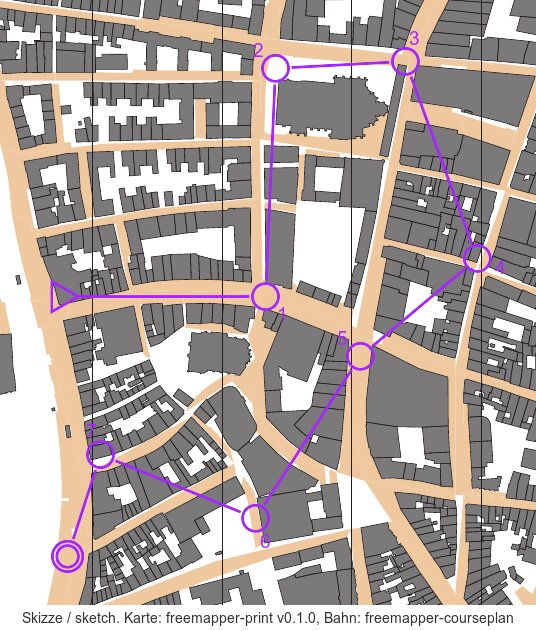
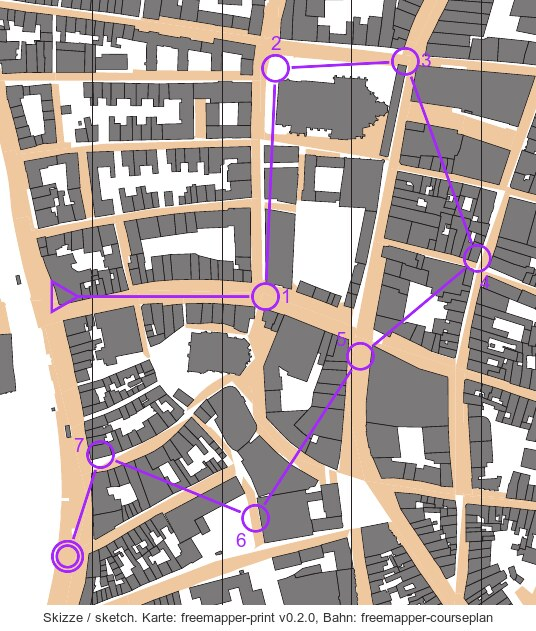
docs: record number placement rules, straight-angle hint and new example output
Claude-Session: https://claude.ai/code/session_01BW25YoqN46qrkRXtWogXH1

diff --git a/examples/luebeck-sprint/make-preview.py b/examples/luebeck-sprint/make-preview.py
@@ -7,6 +7,13 @@ ctrl={str(c['code']):c for c in ev['controls']}
 sp={s['id']:s for s in ev['specials']}
 course=ev['courses'][0]
 seq=[('S1',sp['S1']['map_mm'],None)]+[(str(cc['code']),ctrl[str(cc['code'])]['map_mm'],cc.get('number')) for cc in course['controls']]+[('F1',sp['F1']['map_mm'],None)]
+R_OUTER=3.0+0.175
+def box_dist(c,s,a,b,reach):
+    # distance along the ray at which a box (half sizes a, b) centred on it is `reach` from the origin
+    if s<1e-9 or (c>1e-9 and (reach+a)/c*s<=b): return (reach+a)/c
+    if c<1e-9 or (reach+b)/s*c<=a: return (reach+b)/s
+    p=a*c+b*s
+    return p+math.sqrt(max(p*p-a*a-b*b+reach*reach,0.0))
 P='#A626FF'; r=3.0*k; lw=0.35*k*1.4
 draw=[]
 pts=[px(s[1]) for s in seq]
@@ -25,8 +32,11 @@ for d in draw: cmd+=['-draw',d]
 cmd+=['-stroke','none','-fill',P,'-font','/System/Library/Fonts/Supplemental/Arial.ttf','-pointsize','19']
 for i,s in enumerate(seq[1:-1],1):
     x,y=pts[i]; n=s[2] or {'direction':45,'gap_mm':0.5}
-    t=math.radians(n['direction']); dist=r+n['gap_mm']*k+2.2*k
-    cmd+=['-draw',f"text {x+dist*math.cos(t)-5:.0f},{y-dist*math.sin(t)+7:.0f} '{i}'"]
+    t=math.radians(n['direction']); c,s_=abs(math.cos(t)),abs(math.sin(t))
+    # ADR 0030: gap = clearance from the outer edge of the circle line to the number box, box centred on the ray
+    w=0.6*4.0*k*len(str(i)); h=4.0*k; reach=R_OUTER*k+n['gap_mm']*k
+    dist=box_dist(c,s_,w/2,h/2,reach)
+    cmd+=['-draw',f"text {x+dist*math.cos(t)-w/2:.0f},{y-dist*math.sin(t)+7:.0f} '{i}'"]
 cmd+=[f'{S}/sketch.png']
 subprocess.run(cmd,check=True)
 xs=[p[0] for p in pts]; ys=[p[1] for p in pts]

diff --git a/docs/adr/0031-number-placement-behind-the-circle-and-off-map-symbols.md b/docs/adr/0031-number-placement-behind-the-circle-and-off-map-symbols.md
@@ -1,0 +1,58 @@
+# 0031. Number placement behind the circle and off map symbols
+
+Date: 2026-11-09
+Status: Accepted
+
+## Context
+Until now the automatic placement (`place_numbers`, `course numbers`) avoided the course's own circles, legs and
+numbers and weighed covered map detail, with no rule about where around the circle a number should stand. Course
+setters moved many numbers by hand: a number belongs behind the circle, where the eye arrives after the incoming
+leg, and it must not sit on a path crossing or a small object that the runner needs to read.
+
+The user decided these rules on 2026-11-09 *(user)*:
+
+1. The number covers no point or line symbol of the map in the control area (approach and departure). Area
+   symbols may be covered. This wins over rules 2 to 4.
+2. Preferred direction "behind": the continuation of the incoming connecting line past the control.
+3. If "behind" is blocked by the outgoing line (an almost straight angle), the preferred direction is exactly
+   outside: the bisector of the larger sector between the two lines, on the side the tip of the angle points to.
+   Example: in from the left, out to the right at 170°, tip slightly up, gives 90°, straight above.
+4. If the preferred place is blocked, the free place that deviates least from it wins.
+5. `check` reports an angle above 170° between incoming and outgoing line as a hint.
+
+freemapper-print builds the same rules into the shared placement module (its M3, ADR 0013 and 0014), so both
+programs have to read them the same way.
+
+## Decision
+- **Preferred direction.** The incoming line is the last segment before the circle, counted from the last bend,
+  as in `acute_angle`. The preferred direction is its continuation. For the first control the incoming line
+  comes from the start triangle. Without an incoming line of any length, the outer bisector of the outgoing
+  line alone is used.
+- **Blocked behind.** "Behind is blocked" means the number box at the behind direction, at the placement's gap
+  (0.5 mm), comes within half an overprint line width of the outgoing line *(agreed with freemapper-print,
+  2026-11-09)*. Then the preferred direction is the outer bisector (rule 3).
+- **Candidates.** The placement tries directions on a grid of 15 degrees around the preferred direction, up to
+  the opposite one *(Claude's call)*. The preferred direction itself is always candidate zero, so it keeps its
+  exact value.
+- **Ranking.** Candidates compare as (conflicts, distance to the preferred direction, distance to the outer
+  bisector, lowest direction value). Fewer conflicts win first, so a placement never fails even where every
+  direction is covered *(Claude's call)*.
+- **Map symbols.** Point and line symbols are hard conflicts, counted like the course's own circles, legs and
+  numbers *(agreed with freemapper-print)*. A point symbol counts as covered when the box comes within
+  `POINT_SYMBOL_RADIUS_MM` = 0.5 mm of its position; a line symbol when a segment comes within
+  `LINE_SYMBOL_HALF_WIDTH_MM` = 0.15 mm of the box. Both are map mm and do not scale with the overprint factor
+  *(Claude's call)*. Area symbols cost nothing here. freemapper-print gives them a small cost; this simple
+  placement leaves that out.
+- **Check.** A new check `straight_angle` hints at an angle above 170 degrees between incoming and outgoing
+  line at a punched control. Crossing points get no finding. The rule id is
+  `wkb2026.leg.straight_angle_hint` *(user)*; the 170 degrees are the user's value, the source is the user's
+  criterion *(user)*.
+
+## Consequences
+- Placed directions change. A number now stands behind the circle on most legs, and at an almost straight angle
+  outside at the tip of the angle. Numbers that a user placed by hand stay as they are.
+- Automatic directions are no longer multiples of 15 degrees. The preferred direction comes from the legs
+  and is stored as it is; only the fallback candidates step by 15 degrees from it.
+- freemapper-print implements the same rules in the shared module and cites this ADR. When that module replaces
+  this code, the placements it produces should match these rules except for the small cost it gives to areas.
+- The example `examples/luebeck-sprint` has new number directions and a new preview.

diff --git a/docs/superpowers/specs/2026-11-08-freemapper-courseplan-design.md b/docs/superpowers/specs/2026-11-08-freemapper-courseplan-design.md
@@ -255,8 +255,20 @@ Workspace with three crates *(Claude's call)*:
 
 - Levels, the more specific winning: automatic placement, central position per control, position per course
   *(agreed with freemapper-print)*.
-- Automatic placement runs when a control is created, when a leg changes and on request. It avoids the
-  course's circles, legs and numbers and weighs covered map detail *(Claude's call)*.
+- Automatic placement runs when a control is created, when a leg changes and on request. It follows
+  these rules (ADR 0031):
+  1. The number covers no point or line symbol of the map in the control area; area symbols may be covered.
+     This wins over rules 2–4 *(user, 2026-11-09)*.
+  2. Preferred direction "behind": the continuation of the incoming connecting line past the control
+     *(user, 2026-11-09)*.
+  3. If "behind" is blocked by the outgoing line (almost straight angle), the preferred direction is exactly
+     outside: the bisector of the larger sector between the two lines *(user, 2026-11-09)*. "Blocked" means the
+     box at the behind direction, at the placement's gap, comes within half an overprint line width of the
+     outgoing line; for the first control the incoming line comes from the start triangle *(agreed with
+     freemapper-print)*.
+  4. If the preferred place is blocked, the free place that deviates least from it wins *(user,
+     2026-11-09)*. Candidates lie on a 15° grid around the preferred direction *(Claude's call)*.
+  The course's own circles, legs and numbers stay hard conflicts as before *(Claude's call)*.
 - freemapper-print develops the shared placement module (§5.7 there) and extracts it later. Until then this
   project uses a simple placement of its own behind an interface that the shared module can replace
   *(agreed with freemapper-print)*.
@@ -337,6 +349,7 @@ routing *(Claude's call: selection)*.
 | Several identical objects in the circle without column C | TD11 |
 | Column G "edge"/side on a line object | TD11 |
 | Acute angle at a control (dog leg) and opposing traffic on overlapping legs | WKB26 B 7.2.6, BL12, SOA |
+| Almost straight angle at a control (above 170°, hint) *(user, 2026-11-09)* | user |
 | Straight leg line through a forbidden or impassable area without bends | WKB26 B 7.2.6, IOF-R 17.2 |
 | Leg line through start, finish or another control | BL02 |
 | Control too close to the map edge | BL02 |

diff --git a/docs/manual/de.md b/docs/manual/de.md
@@ -90,6 +90,10 @@ dort an.
 - Postennummern setzt das Programm nur, wenn der Assistent darum bittet. Ändert er danach Strecken oder die
   Reihenfolge, muss er sie neu setzen lassen. Eine Nummernlage, die für einen Posten oder in einer Bahn
   festgelegt ist, bleibt dabei stehen.
+- Die automatische Platzierung setzt die Nummer hinter den Kreis, in Verlängerung der Strecke, die zum Posten
+  hinführt. Knickt die Bahn kaum ab, läuft die weiterführende Strecke dort entlang, und die Nummer steht außen an
+  der Spitze des Winkels. Auf Punkt- und Liniensymbolen der Karte steht sie nur, wenn kein freier Platz bleibt;
+  Flächen darf sie überdecken. Gefällt dir die Lage nicht, setzt du sie selbst.
 - Ändert sich die Reihenfolge einer Bahn, verliert jede Strecke, die jetzt zu einem anderen Bahnpunkt führt, ihre
   Knickpunkte und ihre Abflaggung. Der Assistent bekommt eine Liste dieser Strecken.
 - Bisher lassen sich nur Einzelbahnen bearbeiten und messen. Bei Mannschafts-, Staffel- und Score-Bahnen sagt das
@@ -106,6 +110,10 @@ Ausnahme begründest.
 freemapper-courseplan check halle.courseplan.toml
 freemapper-courseplan check halle.courseplan.toml --all
 ```
+
+Winkel prüft `check` in beide Richtungen. Spitze Winkel meldet es unter 90° als Hinweis und unter 45° als Warnung.
+Läuft die Bahn an einem Posten fast geradeaus, also mit einem Winkel über 170° zwischen den Strecken, gibt es
+einen Hinweis (`wkb2026.leg.straight_angle_hint`), denn dort ist der Posten schwer als Richtungswechsel zu lesen.
 
 Mannschafts-, Staffel- und Score-Bahnen prüft das Programm noch nicht. Für jede meldet es einmal, dass sie nicht
 geprüft wurde.

diff --git a/docs/manual/en.md b/docs/manual/en.md
@@ -87,6 +87,10 @@ there.
   control stands at the right feature.
 - The program places control numbers only when the assistant asks for it. If the assistant then changes legs or
   the order, it has to have them placed again. A number placement set for a control or in a course stays.
+- Automatic placement puts a number behind the circle, in line with the leg that leads to the control. If the
+  course hardly turns, the next leg runs there, and the number goes outside, at the tip of the angle. It stands on
+  a point or line symbol of the map only when no free place is left; it may cover areas. If you dislike the
+  position, set it yourself.
 - When the order of a course changes, every leg that now runs to another stop loses its bends and its taped
   flag. The assistant gets a list of these legs.
 - Only individual courses can be edited and measured so far. For team, relay and score courses the program
@@ -103,6 +107,10 @@ finding as an intended exception.
 freemapper-courseplan check hall.courseplan.toml
 freemapper-courseplan check hall.courseplan.toml --all
 ```
+
+`check` tests angles in both directions. It reports an acute angle as a hint below 90° and as a warning below
+45°. If the course runs almost straight at a control, with an angle above 170° between the legs, it gives a hint
+(`wkb2026.leg.straight_angle_hint`), because the control is hard to read as a change of direction there.
 
 The program does not check team, relay and score courses yet. For each of them it reports once that it was not
 checked.

diff --git a/CHANGELOG.md b/CHANGELOG.md
@@ -6,8 +6,19 @@ Hier stehen alle wichtigen Änderungen an freemapper-courseplan, die neueste zue
 
 ## Unveröffentlicht
 
+### Hinzugefügt
+
+- `check` weist auf fast gerade Winkel an Posten hin: Bilden die Strecken an einem Posten einen Winkel über 170°,
+  gibt es einen Hinweis (`wkb2026.leg.straight_angle_hint`). Querungsstellen bleiben außen vor.
+
 ### Geändert
 
+- Die automatische Platzierung setzt eine Postennummer hinter den Kreis, in Verlängerung der Strecke, die zum
+  Posten führt. Läuft die weiterführende Strecke dort entlang (fast gerader Winkel), steht die Nummer außen, an
+  der Spitze des Winkels. Die Nummer deckt keine Punkt- und Liniensymbole der Karte ab, solange ein freier Platz
+  bleibt; Flächen darf sie überdecken. Ist der bevorzugte Platz belegt, nimmt die Platzierung den freien Platz
+  mit der geringsten Abweichung, in Schritten von 15°. Neu gesetzte Nummern stehen daher oft anders als bisher
+  (ADR 0031). freemapper-print baut dieselben Regeln in sein gemeinsames Platzierungsmodul ein.
 - Der Abstand einer Postennummer (`--gap`, `gap_mm`) zählt jetzt ab der Außenkante der Kreislinie und meint
   den kürzesten Abstand zum Nummernfeld, in jeder Richtung. Bisher zählte er ab der Mitte der Kreislinie, und
   schräg zum Kreis stand die Nummer weiter weg als angegeben. freemapper-print rechnet ab seinem M3 genauso.

diff --git a/CHANGELOG.en.md b/CHANGELOG.en.md
@@ -6,8 +6,19 @@ This file lists all notable changes to freemapper-courseplan, newest first. The 
 
 ## Unreleased
 
+### Added
+
+- `check` hints at almost straight angles at controls: when the legs at a control form an angle above 170°,
+  it gives a hint (`wkb2026.leg.straight_angle_hint`). Crossing points are left out.
+
 ### Changed
 
+- Automatic placement puts a control number behind the circle, in line with the leg that leads to the control.
+  When the next leg runs along that line (an almost straight angle), the number goes outside, at the tip of the
+  angle. The number covers no point or line symbol of the map as long as a free place is left; it may cover
+  areas. If the preferred place is taken, placement picks the free place that deviates least, in steps of 15°.
+  Newly placed numbers therefore often stand differently than before (ADR 0031). freemapper-print builds the
+  same rules into its shared placement module.
 - The gap of a control number (`--gap`, `gap_mm`) now starts at the outer edge of the circle line and means
   the shortest distance to the number box, in every direction. It used to start at the centre of the circle
   line, and on the diagonals the number stood farther away than given. freemapper-print computes it the same

diff --git a/README.md b/README.md
@@ -14,9 +14,9 @@ Wettkampfbestimmungen und gibt sie an die Auswertung und an den Druck weiter:
 Geplant ist für die erste Version:
 
 - Posten mit Code und Postenbeschreibung, Einzelbahnen mit Knickpunkten, Pflichtstrecken und Sperrgebieten;
-- Lage der Postennummern zentral je Posten und je Bahn änderbar, mit automatischer Platzierung;
+- Lage der Postennummern zentral je Posten und je Bahn änderbar, mit automatischer Platzierung hinter dem Kreis, abseits von Punkt- und Liniensymbolen der Karte;
 - Prüfungen nach den Wettkampfbestimmungen 2026 mit Aufsätzen für regionale Empfehlungen, etwa Postenabstände,
-  spitze Winkel und genug verschiedene erste Posten für eine kompakte Startliste, jeweils mit Quelle und mit
+  spitze und fast gerade Winkel und genug verschiedene erste Posten für eine kompakte Startliste, jeweils mit Quelle und mit
   begründeten Ausnahmen (`check`, schon nutzbar);
 - Abgleich mit Purple Pen (`.ppen`) in beide Richtungen, damit beide Programme parallel nutzbar sind;
 - Export nach IOF-XML 3.0 für die Auswertung, zum Beispiel in OE;

diff --git a/README.en.md b/README.en.md
@@ -15,9 +15,9 @@ Planned for the first version:
 
 - controls with code and control description, individual courses with bends, marked routes and forbidden
   areas;
-- control number positions set once per control and changeable per course, with automatic placement;
+- control number positions set once per control and changeable per course, with automatic placement behind the circle, away from point and line symbols of the map;
 - checks against the German competition rules (WKB) 2026 with overlays for regional recommendations, such as
-  control distances, acute angles and enough different first controls for a compact start list, each with its
+  control distances, acute and almost straight angles and enough different first controls for a compact start list, each with its
   source and with exceptions you can give reasons for (`check`, usable now);
 - exchange with Purple Pen (`.ppen`) in both directions, so you can use both programs side by side;
 - export to IOF XML 3.0 for result software, for example OE;

diff --git a/docs/adr/README.md b/docs/adr/README.md
@@ -74,3 +74,4 @@ Keep an ADR between 10 and 30 lines. Write it in English, like all technical doc
 | [0028](0028-leg-shape-checks-angles-opposing-legs-two-leg-places.md) | Leg shape checks: angles, opposing legs and findings at two legs | Accepted | 2026-11-09 |
 | [0029](0029-code-start-and-table-checks.md) | Code, start and table checks | Accepted | 2026-11-09 |
 | [0030](0030-number-gap-is-the-clearance-to-the-circle-line.md) | The number gap is the clearance to the circle line | Accepted | 2026-11-09 |
+| [0031](0031-number-placement-behind-the-circle-and-off-map-symbols.md) | Number placement behind the circle and off map symbols | Accepted | 2026-11-09 |

diff --git a/examples/luebeck-sprint/README.md b/examples/luebeck-sprint/README.md
@@ -9,7 +9,7 @@ Eine Sprintbahn mit sieben Posten auf der Karte der Lübecker Altstadt aus den
 
 <img src="preview.jpg" width="400" alt="Skizze der Bahn auf der Karte der Lübecker Altstadt">
 
-Das Bild ist eine Skizze. Die Karte hat freemapper-print v0.1.0 gerendert, Kreise, Linien und Nummern hat
+Das Bild ist eine Skizze. Die Karte hat freemapper-print v0.2.0 gerendert, Kreise, Linien und Nummern hat
 `make-preview.py` aus der Projektdatei darübergezeichnet. Den echten Bahnaufdruck liefert freemapper-print, sobald
 es Bahnen aus einer `.ppen` drucken kann; dann ersetzt das Druck-PDF diese Skizze.
 

diff --git a/examples/luebeck-sprint/README.en.md b/examples/luebeck-sprint/README.en.md
@@ -9,7 +9,7 @@ A sprint course with seven controls on the map of Lübeck's old town from
 
 <img src="preview.jpg" width="400" alt="Sketch of the course on the map of Lübeck's old town">
 
-The image is a sketch. freemapper-print v0.1.0 rendered the map, and `make-preview.py` drew circles, lines and
+The image is a sketch. freemapper-print v0.2.0 rendered the map, and `make-preview.py` drew circles, lines and
 numbers from the project file on top. freemapper-print will print the real course overprint once it can read
 courses from a `.ppen`; its PDF then replaces this sketch.
 
